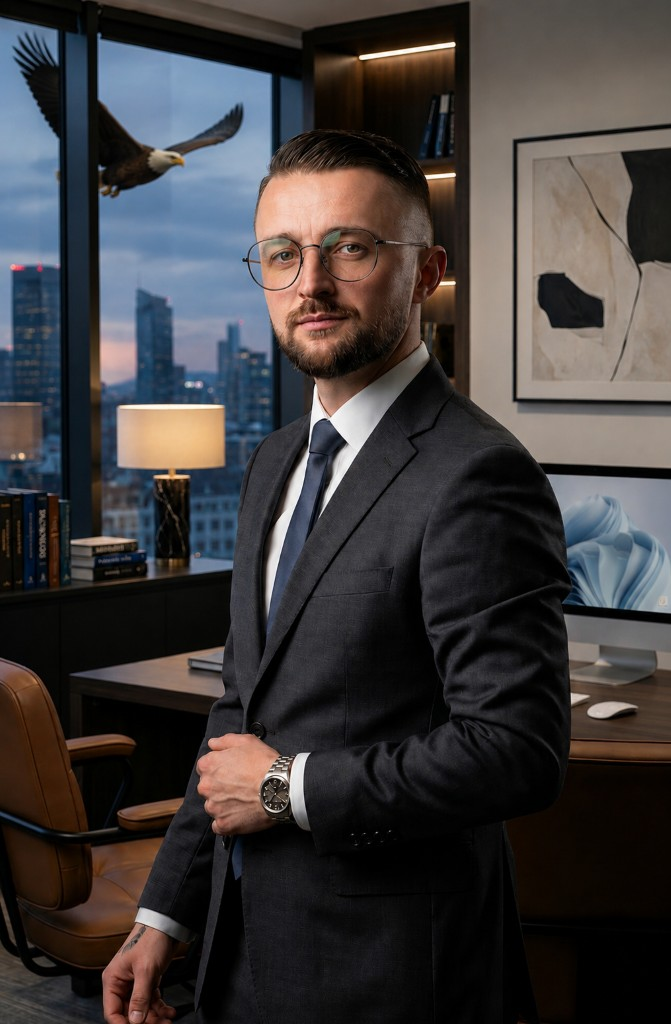
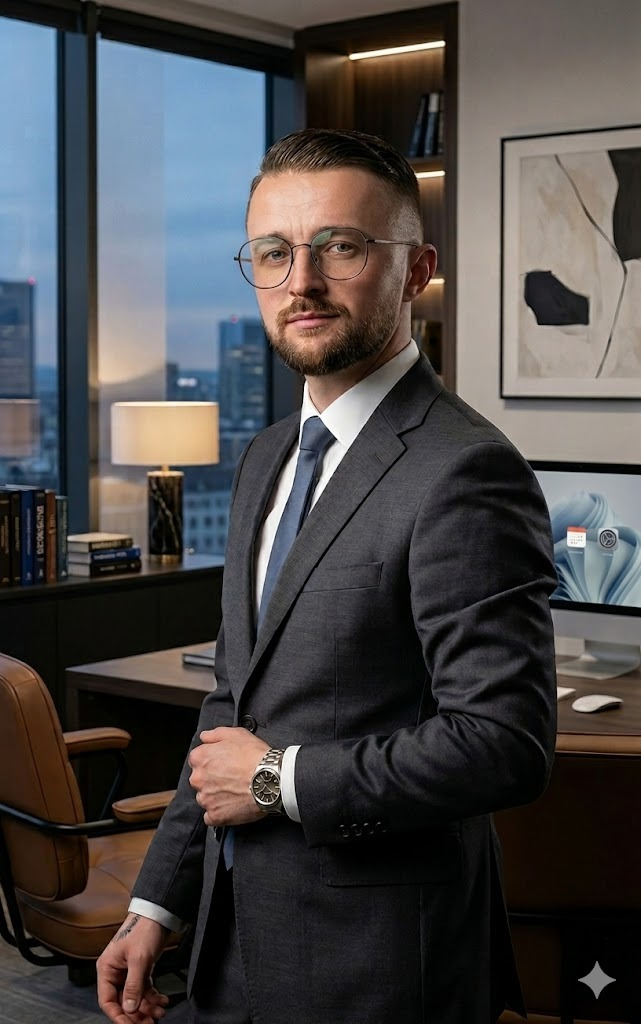
feat(projects): replace Vertex project with Pure Form luxury scroll-driven showcase and sync profile card image

diff --git a/src/data/projects.ts b/src/data/projects.ts
@@ -144,17 +144,17 @@ export const projects: Project[] = [
     accent: '#ffb13b',
   },
   {
-    id: 'vertex-to-reality',
-    title: 'From Vertex to Reality',
+    id: 'pure-form',
+    title: 'Pure Form',
     description: {
-      pl: 'Uproszczona podróż przez budowę świata 3D — od wierzchołków i topologii po shadery, światło i finalny render.',
-      en: 'A simplified journey through building a 3D world — from vertices and topology to shaders, lighting and the final render.',
+      pl: 'Luksusowa reklama scroll-driven prezentująca fikcyjny zapach APKMASON — PURE FORM.',
+      en: 'A luxury scroll-driven showcase of the fictional fragrance APKMASON — PURE FORM.',
     },
-    image: '/vertex_mockup.webp',
-    link: 'https://apkmason.dev/vertex/',
-    tags: ['GSAP', '3D pipeline', 'Video scrubbing'],
-    category: 'story',
-    accent: '#65c7ff',
+    image: '/pure_form_mockup.webp',
+    link: 'https://apkmason.dev/Pure_form/',
+    tags: ['Scroll-driven', 'Luxury UI', 'Motion'],
+    category: 'experiment',
+    accent: '#d4af37',
   },
   {
     id: 'ascent',

diff --git a/CHANGELOG.md b/CHANGELOG.md
@@ -8,6 +8,8 @@ stosują [Semantic Versioning](https://semver.org/).
 
 ### Changed
 
+- zastąpiono projekt „From Vertex to Reality” nowym luksusowym projektem scroll-driven „Pure Form” (URL: https://apkmason.dev/Pure_form/, kategoria: experiment) wraz z dedykowaną grafiką 3D,
+- zaktualizowano plik karty profilowej w portfolio (profile.jpg),
 - zastąpiono statyczny portret interaktywną, bezdźwięczną sekwencją wideo:
   uruchamianą po najechaniu na desktopie i po dotknięciu na mobile,
 - zaktualizowano projekt „Skin Elixir” w portfolio o nową grafikę 3D, adres URL https://apkmason.dev/skincare_demo/ oraz kategorię experiment,
